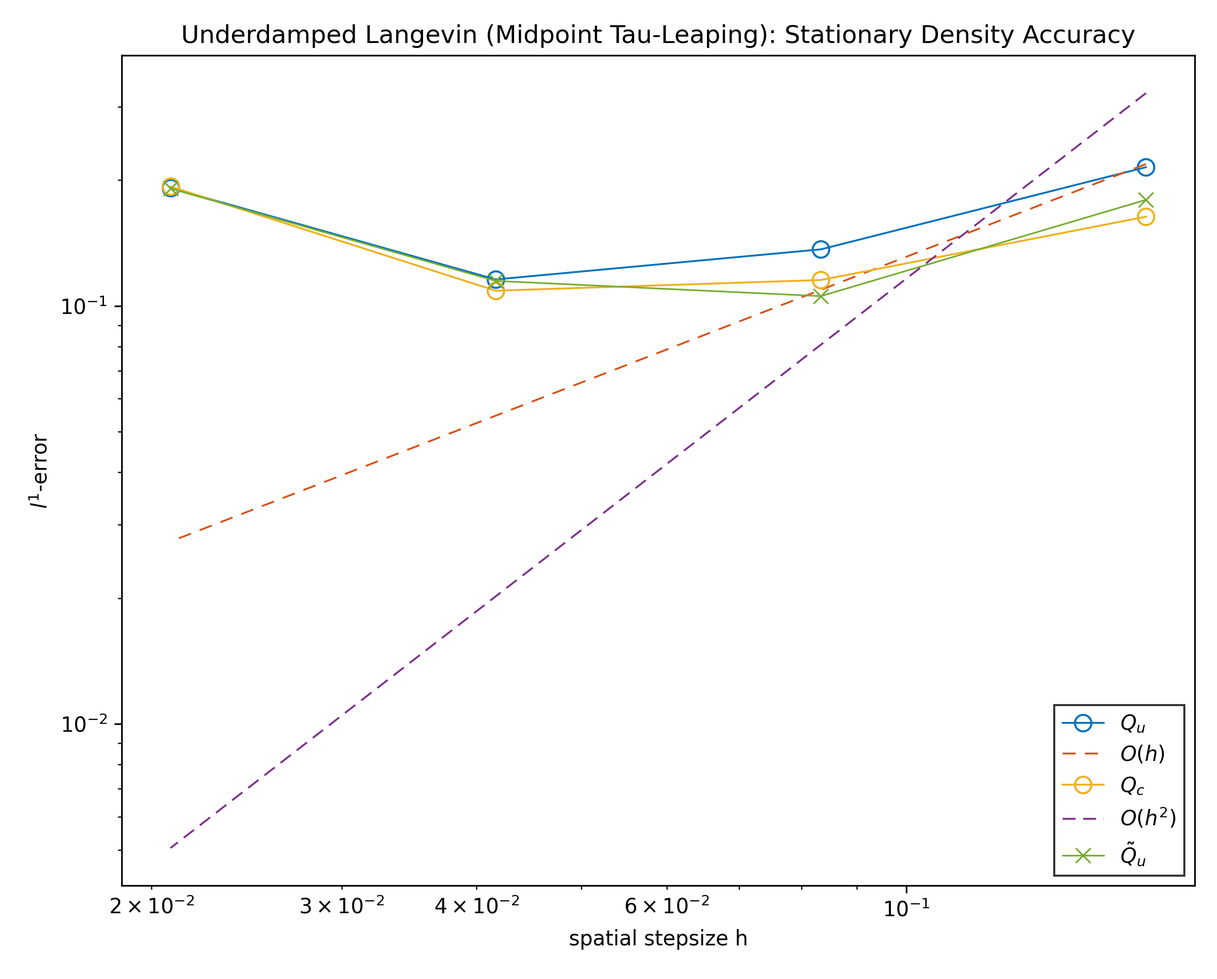
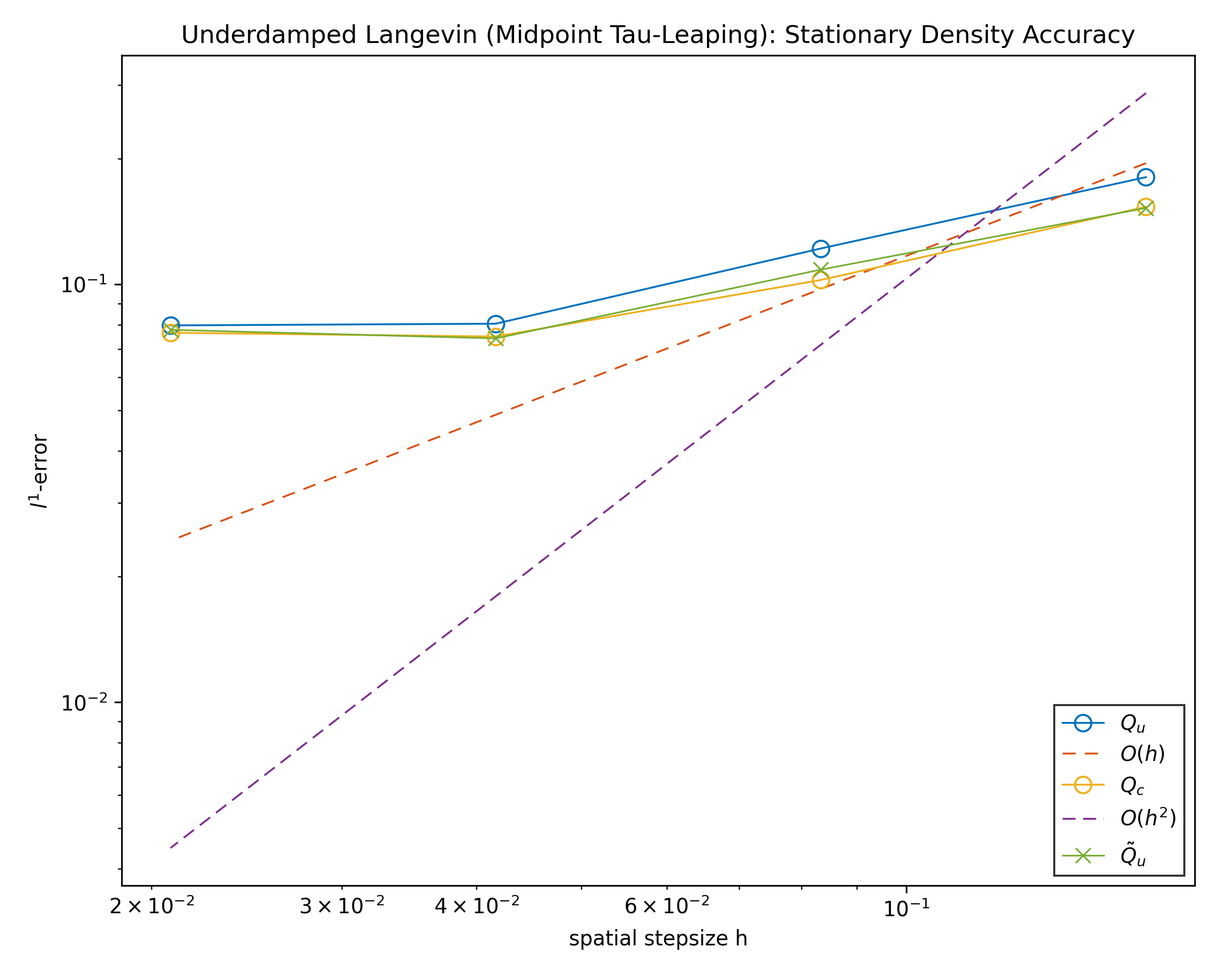
增加一个关于退化噪声的研究现状的介绍

diff --git a/26.02/mid_point.py b/26.02/mid_point.py
@@ -31,7 +31,7 @@ def _rates(mu_x: float, mu_v: float, h: float, sigma: float, scheme_id: int) -> 
     qx_p = max(mu_x, 0.0) / h
     qx_m = max(-mu_x, 0.0) / h
 
-    m = 0.5 * sigma * sigma
+    m = 0.5 * sigma * sigma #!!!
     if scheme_id == 0:  # Q_u
         qv_p = max(mu_v, 0.0) / h + m / (h * h)
         qv_m = max(-mu_v, 0.0) / h + m / (h * h)
@@ -142,6 +142,7 @@ def adaptive_sample_steps(
     # tau scales linearly with h; sample steps are additionally scaled by 1/h
     # so the effective sample size per bin is more stable across grids.
     tau = tau_ref * (h / h_ref)
+
     base_steps = int(round(t_sample / tau))
     extra_scale = n / n_ref
     sample_steps = int(round(base_steps * extra_scale))
@@ -182,10 +183,11 @@ def main() -> None:
     n_list = [48, 96, 192, 384]
     h_vals = span / np.array(n_list, dtype=np.float64)
 
-    tau_ref = 0.02
+    tau_ref = 0.001
     t_burn = 1_000.0
     t_sample = 4_000.0
     sample_cap = 1_600_000
+    sample_cap = 160_000_000
     n_rep = 2
     n_ref = n_list[0]
     h_ref = span / n_ref

diff --git a/deep-research-report.md b/deep-research-report.md
@@ -1,0 +1,340 @@
+# 退化噪声随机系统的理论与数值研究进展综述
+
+## 执行摘要
+
+带**退化噪声**（degenerate noise）的随机系统，典型地指随机扰动只作用在状态空间的部分方向，或噪声强度随状态变化并可能在某些区域/流形上**降秩甚至消失**。此类系统的“生成元”对应**非一致椭圆**的二阶算子，因而许多经典工具（如一致椭圆 PDE 的 Schauder/Aronson 理论）需要被替换或加强。其核心图景是：**扩散只在少数方向发生，但漂移与噪声方向通过李括号/耦合把随机性传播到全空间**，从而出现次椭圆（hypoelliptic）平滑、遍历与混合等现象。
+
+理论方面，现代主线通常由三条链路构成：  
+(1) **Hörmander 括号条件 →（次椭圆）平滑性/密度存在**：从  的次椭圆判别（1967）出发，（1978）引入随机变分（Malliavin calculus）给出概率证明与密度正则性框架，随后有简化与统一化（如 Norris、Kusuoka–Stroock、Hairer 等）。  
+(2) **平滑/强 Feller + 可达性/不可约性 → 遍历性与混合速率**：在退化噪声情形，“小集/次小化”往往来自次椭圆平滑与控制可达性，配合 Harris 定理即可推出唯一不变测度与指数混合；在典型的动力学（如 kinetic Fokker–Planck/Langevin）中，**hypocoercivity** 给出更“结构化”的指数收敛与可计算速率。  
+(3) **小噪声/短时极限 → 大偏差与几何**：退化噪声下的大偏差率泛函通常等价于“控制能量”最小化；强退化且代数结构（零幂化/分级）显著时会出现**分级（graded）LDP**与次黎曼几何控制距离。
+
+数值方面，退化噪声并不必然降低经典离散格式（Euler–Maruyama 等）的**有限时间强/弱收敛阶**，因为这些阶数多依赖于系数 Lipschitz 与矩条件，而不要求扩散矩阵可逆；但退化会显著影响：  
+- **弱误差分析所需的 Kolmogorov PDE 正则性**（此处次椭圆性反而是利好）；  
+- **长时间采样/不变测度偏差**（需要结合 hypocoercivity 与 backward error analysis）；  
+- **结构保持（如正性、约束流形、守恒律）**与稀有事件方差控制（MLMC/重要性采样）。
+
+下面给出按“定义—适定性—正则性—长期动力学—大偏差—控制—数值方法”的系统化梳理，并在每部分给出关键定理假设、证明思路要点、代表性文献与可操作的数值建议。
+
+```mermaid
+flowchart LR
+A[退化结构: 降秩/消失/部分受噪] --> B[分析工具]
+B --> B1[Hörmander/李括号]
+B --> B2[Malliavin 协方差]
+B --> B3[Harris+Lyapunov 小集]
+B --> B4[Hypocoercivity]
+B --> C[结论层]
+C --> C1[密度平滑/强Feller]
+C --> C2[遍历/混合速率]
+C --> C3[LDP/稀有事件几何]
+C --> D[数值层]
+D --> D1[离散收敛(强/弱)]
+D --> D2[不变测度偏差]
+D --> D3[MLMC/方差缩减]
+D --> D4[粒子/谱/多尺度]
+D --> E[应用: 动力学Langevin/过滤/金融/控制]
+```
+
+## 退化噪声：定义、分类与建模范式
+
+考虑一般（不预设具体形式的）Itô 随机系统
+$$
+\mathrm dX_t=b(X_t)\,\mathrm dt+\sigma(X_t)\,\mathrm dW_t,\qquad X_t\in\mathbb R^d,\; W_t\in\mathbb R^m,
+$$
+其扩散矩阵 $a(x)=\sigma(x)\sigma(x)^\top$ 是 $d\times d$ 半正定矩阵。所谓“非退化/一致椭圆”通常要求存在 $\lambda>0$ 使 $a(x)\ge \lambda I$（各向同性、全方向扩散）；而**退化噪声**意味着 $a(x)$ 在某些点/方向上不再正定（秩小于 $d$ 或最小特征值可趋于 0），使生成元成为（仅）半椭圆或次椭圆算子。
+
+在研究与应用中，退化大致可按“几何结构 + 噪声如何传播”分为四类（与你问题中点名的四种基本对齐）：
+
+1) **部分退化（partially degenerate，常秩但 $m<d$**）：噪声只直接作用于部分分量，但漂移把噪声传播到其它分量。典型原型是**动量—位置耦合**的 kinetic Langevin/随机哈密顿系统，噪声注入动量（速度）而位置仅通过 $\dot q=p$ 获得随机性。  
+
+2) **次椭圆/“Hörmander 型”退化（hypoelliptic degeneracy）**：虽然 $a(x)$ 退化，但由漂移与噪声向量场的李括号生成的分布在每点张成全空间，从而获得平滑密度等强正则结论（Hörmander 条件）。  
+
+3) **乘性退化（multiplicative degeneracy：$\sigma(x)$ 随状态变化并可能在边界/零点消失）**：如平方根型扩散（CIR/Heston 族）在 $x=0$ 处扩散强度为 0，从而引入边界可达性、正性保持与数值格式设计问题；这类系统虽可在一维/特殊结构下解析，但一般会出现非光滑系数与边界层效应。  
+
+4) **状态依赖降秩（state-dependent rank degeneracy）**：$\mathrm{rank}\,\sigma(x)$ 随 $x$ 改变，甚至在某些集合上突然降秩；此时 Hörmander 条件可能只在局部成立或以“弱 Hörmander”形式成立，密度的支撑与正性会出现强几何依赖。  
+
+为便于后续“何种理论可用”，下表给出（粗粒度但实用的）对应关系。
+
+| 退化类型 | 典型结构特征 | 主要可用理论工具 | 常见可得结论（在附加条件下） | 主要难点/风险点 |
+|---|---|---|---|---|
+| 部分退化（常秩，噪声在子空间） | $m<d$，噪声注入子空间；漂移耦合 | Hörmander、Malliavin、Harris、hypocoercivity | 平滑密度、唯一不变测度、指数混合；可证明离散链遍历性 | 噪声传播依赖耦合；长时间数值偏差更敏感  |
+| 次椭圆（括号生成） | 李括号生成全维 | Hörmander(1967)、Malliavin(1978)、Norris 引理 | 转移密度 $C^\infty$、强 Feller、密度正性区间 | 需要验证括号条件；弱 Hörmander 情形更精细  |
+| 乘性退化（噪声可消失） | $\sigma(x)=0$ 于边界/集合 | 一维边界分类、路径唯一性、正性保持格式 | 正性/不可穿越边界；不变测度存在（视漂移） | 数值易“穿越”边界；弱误差/密度可能奇异  |
+| 状态依赖降秩 / 弱 Hörmander | 秩随 $x$ 变；传播结构局部化 | 局部 Malliavin、parametrix、管状估计 | 局部密度估计、支撑/正性判别、短时渐近 | 全局遍历可能失败；多不变测度/亚指数混合  |
+
+**数值实现建议（建模阶段就要做）**：在开始任何数值模拟之前，建议先明确你研究对象属于哪类退化：  
+- 若是“部分退化 + 耦合传播”，优先尝试验证（或构造）Hörmander/可控性条件，因为它同时决定密度正则性与遍历（进而决定采样算法可行性）。  
+- 若是“噪声可消失”，先做边界可达性与正性分析（是否会撞到退化集合、撞到后如何演化），否则数值上需要强制正性/反射/吸收的结构保持。  
+- 若是“状态依赖降秩”，要区分局部与全局可达性：局部有密度并不自动推出全局唯一遍历。  
+
+## 适定性：存在唯一性、弱/强解与不可约性
+
+退化噪声下，最基础的问题仍是：解是否存在（weak/strong），是否唯一（law uniqueness / pathwise uniqueness），是否爆炸，以及解流的正则性如何。许多“第一层”结论**不要求**扩散矩阵可逆：只要系数满足局部 Lipschitz 与线性增长，就可得到强解存在唯一（经典 Itô 理论）。这一点在标准教材体系中是明确的。  
+
+**关键定理（经典强适定性，非退化非必要）**：若 $b,\sigma$ 在 $\mathbb R^d$ 上局部 Lipschitz 且满足线性增长，则对任意初值 $X_0=x$ 存在唯一（不会爆炸的）强解；并且解对初值在局部意义下连续。主要证明基于 Picard 迭代、Burkholder–Davis–Gundy 不等式与 Grönwall。  
+
+当系数不满足 Lipschitz（尤其是乘性退化、粗糙漂移、Sobolev 系数）时，退化会显著改变“噪声正则化”能力：在一致椭圆情形可用的 Zvonkin 变换/偏微分方程正则化，到了退化情形往往需要额外结构（例如 Hörmander 传播或特殊链式结构）才能成立。相关方向在近十余年有一批针对“退化 + 低正则系数”的强唯一性成果：
+
+-  与  证明了对**可能退化**的多维 SDE，在扩散系数处于 Sobolev/Holder 类、漂移较粗糙的条件下仍可得强唯一性与弱存在；核心工具包括 Krylov 型估计、正则化与局部化。  
+-  对退化系统在 Hölder 漂移（指数超过临界阈值）情形给出路径唯一性证明，反映了退化噪声下的临界正则门槛现象。  
+-  等对带奇异速度场的阻尼 Langevin（典型部分退化）建立强适定性并进一步讨论指数遍历（见下一节）。  
+
+**证明思路要点（为何这些方法能“顶住退化”）**：  
+(1) 通过“把 SDE 变成 PDE 的估计问题”仍然是主线，但 PDE 不再是一致椭圆方程，而是 Kolmogorov 型退化 PDE；因此往往需要利用系统的链式结构或 Hörmander 传播来获取足够的先验估计（例如某些方向上的次椭圆 Schauder/L^p 正则）。  
+(2) Krylov 估计与 Girsanov 变换仍可用，但可用范围更受限制，因为退化会导致噪声方向不足以“抹平”漂移的不规则性。  
+
+**不可约性/可达性（为遍历打基础）**：适定性之外，退化系统常需要额外验证“从任意点能进入足够大的集合”这一性质。经典做法是将其转化为控制系统可达性（支撑定理），或借助密度正性判别。  
+
+**数值实现建议**：  
+- 在粗糙系数或强非线性场景，优先使用“tamed/implicit”思想或能量控制型离散（见后文），并在模拟中实时监控矩增长/爆炸迹象（例如动量平方、Lyapunov 函数。）。对应的理论动机来自这些强适定性工作普遍依赖的 Lyapunov 与 Krylov 估计框架。  
+- 若目的是长时间统计（不变测度/遍历平均），适定性证明里出现的 Lyapunov 函数往往可直接复用为数值稳定性诊断量。  
+
+## 正则性：Hörmander 型次椭圆、Malliavin 工具与密度估计
+
+退化噪声的“最核心增益”往往不是强解存在性本身，而是**在退化条件下仍能得到平滑的转移密度与强 Feller 性**，使得长期动力学与控制问题可处理。这里的中心结果就是 Hörmander 次椭圆理论及其 Malliavin 概率证明。
+
+**关键定理（Hörmander 1967：括号条件 ⇒ 次椭圆/平滑）**：对二阶算子
+$$
+L = V_0 + \frac12\sum_{i=1}^m V_i^2
+$$
+（$V_i$ 是光滑向量场），若在每个点 $x$ 上，由 $\{V_1,\dots,V_m\}$ 与其与 $V_0$ 的迭代李括号生成的李代数张成 $\mathbb R^d$，则对应的偏微分算子是**hypoelliptic**，因此转移概率具有 $C^\infty$ 密度（在适当条件下）。  
+
+**Malliavin calculus 路线（Malliavin 1978 及其发展）**：Malliavin 的突破是引入 Wiener 空间上的微分结构，定义并分析**Malliavin 协方差矩阵**
+$$
+\mathcal M_t = \langle DX_t, DX_t\rangle_{L^2([0,t])},
+$$
+证明其在 Hörmander 条件下几乎处处可逆且逆矩具有足够矩，从而推出密度存在与平滑。随后  的专著系统化了该理论； 提供了广为使用的简化工具（含 Norris 引理）， 与  给出密度估计、近似与误差分析的经典框架； 的讲义/论文提供了现代化的短证明与直观解释。  
+
+**证明思路要点（为什么括号条件能“补齐”退化方向）**：  
+- 从动力系统角度，$V_i$ 给出直接噪声方向，“漂移 + 噪声方向”通过李括号刻画的高阶效应在小时间尺度内产生额外可达方向（类似控制系统的 Lie algebra rank condition）。这与控制可达性理论深度同构（见后文“控制与支撑定理”）。  
+- Malliavin 路线把这一几何传播转化为协方差矩阵的下界估计：若某方向 $\xi$ 使 $\langle \mathcal M_t\xi,\xi\rangle=0$，意味着沿噪声路径的任何微扰都无法在该方向产生变化；Hörmander 条件排除了这种情况，通过 Norris 引理与迭代括号展开可得 $\det \mathcal M_t>0$ 的概率下界。  
+
+**密度估计与“噪声传播链”**：在部分退化系统中，人们常关注密度的定量上/下界与短时标度。 与  针对“第一分量受非退化噪声驱动，其余分量为确定性链式传递”的模型给出双边密度估计与几乎最优的标度行为，这是“退化但可传播”的原型结果之一。  
+与此相关的还有弱 Hörmander 条件下的管状估计（tube estimates），揭示“可达性几何”如何进入密度估计。  
+
+**数值实现建议（正则性层面对算法的影响）**：  
+- 若你要证明或利用弱误差阶、或要用 PDE/半群方法分析算法偏差，**确认系统满足 Hörmander（或其弱形式）是关键分水岭**：满足时，Kolmogorov 方程解的平滑性更可期，从而 Talay–Tubaro 式弱误差展开更容易成立；若不满足，则弱误差可能被非光滑密度、边界奇性或支撑维数降低所主导，需要改写误差分析（例如改用路径空间方法或局部化）。  
+- 对实际计算，验证 Hörmander 的“工程化”做法通常是：在感兴趣区域采样若干点，数值计算向量场及其低阶李括号的张成维数（符号/自动微分都可），用于初步判断噪声传播是否充分；这也同时为后续控制可达性分析服务。  
+
+## 长期动力学：不变测度、遍历、混合与稳定分岔
+
+退化噪声系统的长期行为是最丰富也最“应用导向”的部分：你关心的不仅是是否存在不变测度，还关心唯一性、混合速率（mixing rate）、以及噪声对稳定性/分岔的影响。这里常用两类互补框架：**Harris–Lyapunov（概率）**与 **hypocoercivity（算子/能量）**。
+
+**Harris 型遍历性（强通用框架）**：  
+在一般马尔可夫过程层面，Harris 定理指出：若存在 Lyapunov 函数 $V$ 使得
+$$
+P_t V \le \alpha V + \beta\quad (\alpha<1),
+$$
+并且某个“$V$ 的小水平集”是小集（minorization/small set），则过程具有唯一不变测度，且在加权全变差度量下指数收敛。 与合作者给出了适用于 SDE（含退化噪声）及其时间离散的系统性做法：用 Markov 链理论（Meyn–Tweedie 思路）证明几何遍历，并分析离散近似的稳健性。  
+同时，Hairer 等对 Harris 证明给出更“可操作”的版本，常被用作 SPDE/退化扩散的遍历工具箱。  
+
+在退化噪声情形，“小集”往往来自两条路径：  
+- **次椭圆平滑 ⇒ 强 Feller ⇒ 局部密度下界 ⇒ 小集**；  
+- **支撑定理/可控性 ⇒ 可达性 ⇒ 不可约性**，再配合局部平滑得到小集。  
+
+**Hypocoercivity（结构化指数趋于平衡）**：  
+在 kinetic Fokker–Planck、Langevin 等典型退化扩散中，生成元常可分解为 “耗散项 + 反对称输运项”，直接耗散缺失导致标准 Poincaré/谱隙工具不直接适用，此时 hypocoercivity 通过构造等价范数/熵泛函，把输运耦合带来的间接耗散显式化，从而得到指数趋于平衡与可计算速率。 的系统性综述（Hypocoercivity）奠定了该方法的统一框架；、、 等给出针对线性动理学方程的精细化版本。  
+在随机哈密顿/阻尼 Langevin 场景， 讨论了指数收敛到不变测度与隐式离散的长期性质，这是“退化扩散 + 长期数值近似”连接理论与算法的经典文献。  
+
+**稳定性与分岔（退化噪声的特殊性）**：  
+- 在随机稳定性理论中，Lyapunov 函数与指数稳定/有界性等概念形成基本工具； 的专著系统整理了随机微分方程稳定性（包含受控系统的稳定化思想）。  
+- 从随机动力系统（RDS）角度， 的专著将随机系统视作“随机映射/随机流”，用随机吸引子、Lyapunov 指数等刻画噪声引发的稳定/同步/分岔。  
+- 退化噪声对分岔的影响高度依赖“噪声是否能到达不稳定模态”。例如在“只激发部分模态”的加性退化噪声下，可能出现稳定化阈值、稳态测度的分岔与 Lyapunov 指数符号变化；近期工作在特定模型（如 Kolmogorov 型系统）中给出系统讨论。  
+
+**数值实现建议（长期统计）**：  
+- 若研究目标是混合速率或稳态采样，建议优先构造可验证的 Lyapunov 函数并数值检查漂移条件，因为这直接决定你能否用 Harris 或 hypocoercivity 控制误差与运行时间。  
+- 对 kinetic/Langevin 类系统，长时间采样往往更看重“对不变测度的偏差阶”而非有限时间强误差；此时 splitting（如 BAOAB）与 backward error analysis 往往比单纯提高强阶更有效（见数值节）。  
+
+## 罕见事件：大偏差与样本路径理论
+
+在退化噪声下，大偏差（LDP）既是理论工具（刻画稳态跃迁、亚稳态、短时热核几何），也是数值设计的指南（重要性采样、最可能路径）。退化的关键影响在于：**率泛函只对噪声可达方向有限**，并且在强退化/次黎曼几何情形，短时标度可能不是“统一缩放”的。
+
+**Freidlin–Wentzell 型小噪声 LDP（控制表述，退化可纳入）**：  
+经典观点：对小噪声系统
+$$
+\mathrm dX_t^\varepsilon=b(X_t^\varepsilon)\,\mathrm dt+\sqrt{\varepsilon}\,\sigma(X_t^\varepsilon)\,\mathrm dW_t,
+$$
+样本路径在 $\varepsilon\to0$ 下满足 LDP，率泛函可写为受控确定性方程
+$$
+\dot x = b(x)+\sigma(x)u
+$$
+的控制能量最小化 $\frac12\int_0^T\|u(t)\|^2\,\mathrm dt$（不可达方向代价为 $\infty$）。这一“变分/控制”形式在弱收敛方法框架下尤其清晰，并可在**可能退化**的 Itô 过程上成立。  
+
+其中， 与  明确讨论了“可能退化”的小噪声 Itô 过程，在较温和假设下用 Dupuis–Ellis 弱收敛策略给出 LDP，并给出对平方根扩散等例子的应用。  
+ 与  的专著则系统呈现了变分表示、弱收敛与稀有事件数值近似之间的统一框架。  
+
+**次椭圆/强退化的短时大偏差与几何**：  
+在 Hörmander 系统中，短时热核渐近与大偏差常与次黎曼距离相关。 与  的工作给出热核在对角线附近的指数衰减与几何结构联系，是经典基石。  
+对于“强退化且李代数具零幂结构”的情形，Ben Arous 与  提出了分级大偏差原理（graded LDP），反映不同方向的有效时间标度不同。  
+
+**数值实现建议（稀有事件）**：  
+- 若你要计算跃迁概率/最可能路径，优先写出控制问题的 Euler–Lagrange/Hamilton 方程，或用变分方法求最小作用量路径；退化噪声下要特别注意“可达集”的几何约束——很多路径的代价实际上是 $\infty$。这一点从支撑定理与控制表述可直接看出。  
+- 重要性采样与自适应偏置往往可从最优控制（零方差偏置）出发构造；Budhiraja–Dupuis 体系强调这类“表示 + 数值”闭环。  
+
+## 控制与可达性：可控性、支撑定理与稳定化
+
+退化噪声系统与几何控制之间有直接对应：噪声只在 $m$ 个方向驱动，等价于控制系统只允许沿这 $m$ 个向量场施加控制输入。因此“系统能到哪儿”“密度在哪里为正”“是否不可约”等问题，都可以以控制可达集/轨道理论来刻画。
+
+**支撑定理（Stroock–Varadhan 1972）**：  
+在适当正则条件下，扩散过程在路径空间 $C([0,T];\mathbb R^d)$ 上的法则支撑（support）等于“以 Cameron–Martin 路径作为控制”的受控常微分方程解集的闭包。直观上，这说明：**退化噪声不会自动‘填满’全空间；它能到达的区域由相应控制系统决定**。  
+
+控制理论进一步给出“何时可达集是满维”的判据：  
+- **轨道定理/李括号结构**： 的轨道定理刻画由向量场族生成的轨道为浸入子流形，并与括号闭包相关；在典型条件下，李代数秩条件可推出局部可控性与可达集的维数结论。  
+- 几何控制的系统性教材（如  与 ）总结了 Chow–Rashevskii、Lie algebra rank condition 等与可控性相关的几何机制，这也正是 Hörmander 条件在控制侧的“同源版本”。  
+
+**密度正性与可达性**：密度是否在某点严格为正，本质上与能否用控制系统从初值到达该点有关。近年的工作把 Ben Arous–Léandre 的思想与控制几何结合，给出可操作的正性判据。  
+
+**稳定化与控制**：退化噪声下，噪声并不一定稳定系统；但如果噪声方向经耦合能够影响不稳定模态，则可能产生噪声诱导稳定、同步等现象。稳定化的一般理论仍以 Lyapunov 方法为核心（可扩展到受控扩散）。  
+
+**数值实现建议（控制/可达性相关计算）**：  
+- 实务上，支撑定理提示一种“先验诊断”：用确定性受控系统（把 $dW_t$ 换成分段线性控制）做可达性数值实验，可快速判断状态空间的可达区域、潜在不变流形以及多稳态结构。  
+- 若你要做过滤/观测同化，退化噪声往往意味着“隐状态在部分方向上缺乏直接激励”，粒子滤波可能出现退化（权重塌缩）更严重，应更早引入重采样、局部 MCMC move 或基于控制的 proposal（见后文粒子法）。  
+
+## 数值方法：离散化、收敛率、方差缩减与多尺度
+
+这一节将数值方法分为三层目标：  
+- **有限时间轨道近似**（强/弱收敛）；  
+- **长时间统计/不变测度采样**（偏差与混合）；  
+- **不确定性量化/稀有事件**（方差缩减与多尺度）。
+
+### 离散化与强/弱收敛：退化是否改变收敛阶？
+
+**基础结论（Euler–Maruyama 等的强/弱阶）**：在全局 Lipschitz 与线性增长等标准条件下，Euler–Maruyama 的强收敛阶典型为 $1/2$，弱收敛阶典型为 $1$；这些结论本身不依赖扩散矩阵可逆。 的综述讲义是数值模拟 SDE 的高可读入口；弱误差系统展开的基础来自  与 Talay 的经典工作（Talay–Tubaro 展开）。  
+
+**退化带来的“弱分析差异”**：  
+强收敛更多直接依赖路径估计（BDG + Grönwall），因此在光滑系数下通常不因退化而本质改变；但弱误差分析常通过 Kolmogorov backward PDE 的解的高阶导数有界性来实现。退化系统若满足 Hörmander 次椭圆，则反而可保证足够平滑；若不满足，弱误差可能被非光滑性主导，从而需要换工具。  
+
+**隐式/稳定化离散**：对刚性或强耗散系统，隐式 Euler 常用于提升稳定性，且在某些退化系统（如随机哈密顿/阻尼 Langevin）中能与长期遍历分析良好耦合（Talay 2002）。  
+
+**乘性退化（正性保持）专门格式**：平方根扩散（例如 CIR）要求数值上保持非负性，否则会产生不可解释的复数噪声项或严重偏差。 系统研究了 CIR 的离散与高阶弱格式，并给出在无参数限制条件下的可实现方案，是“噪声在边界退化”的代表性数值文献。  
+
+### 长时间采样：splitting、backward error 与不变测度偏差
+
+对遍历系统，更常见的任务是估计稳态平均 $\int \varphi\,\mathrm d\mu$ 或生成近似独立样本。此时，“单步强误差”并不等价于“稳态偏差”，需要专门的长期分析。
+
+**Talay 2002（随机哈密顿系统）**：研究了随机哈密顿系统的指数趋于不变测度，并讨论隐式 Euler 离散对长期统计的影响，是连接“退化动力学 + 不变测度 + 数值近似”的经典桥梁。  
+
+**分裂法与 BAOAB（Langevin/动理学系统）**：在分离可解子算子（如漂移、摩擦、噪声）后进行 splitting，可得到对 Gibbs 测度采样表现优异的算法。 与  通过 BCH 展开比较多种 Langevin 积分器，并揭示 BAOAB 等方法在某些极限下的“超收敛/低偏差”性质，这在分部退化的采样问题中具有很强实践意义。  
+
+**高阶不变测度近似**： 等研究了如何构造对不变测度具有更高阶精度的数值方法（通过修正漂移/噪声或高阶后向误差分析），适用于遍历扩散的稳态平均评估。  
+
+### 方差缩减与蒙特卡洛：MLMC、小噪声与稀有事件数值
+
+**MLMC（多层蒙特卡洛）**： 的 MLMC 结果表明，在典型 Lipschitz payoff + Euler 离散下，把均方误差控制到 $O(\varepsilon^2)$ 的计算复杂度可从标准 MC 的 $O(\varepsilon^{-3})$ 降到 $O(\varepsilon^{-2}(\log \varepsilon)^2)$（更理想的设置下可达 $O(\varepsilon^{-2})$）。这是实践中最通用的方差缩减机制之一。  
+
+```mermaid
+xychart-beta
+title "标准MC vs MLMC 的典型成本阶（Euler离散，Lipschitz payoff）"
+x-axis ["MC", "MLMC"]
+y-axis "ε 的幂指数（越小越省）" 0 --> 3
+bar [3, 2]
+```
+
+**小噪声与退化结构下的改进**：在小噪声极限中，粗粒度离散的方差结构会变化，MLMC 需要与小噪声结构匹配的耦合策略；、Higham 与  专门分析了小噪声 SDE 的 MLMC 行为。  
+
+**稀有事件加速**：与大偏差部分对应，基于变分表示/最优控制的加速蒙特卡洛在 Budhiraja–Dupuis 体系中被系统讨论；理论上最优偏置与率泛函最小化紧密相关。  
+
+### 多尺度方法：平均/齐次化 + 退化噪声
+
+退化噪声系统中多尺度现象很常见：快变量可能正是受噪声驱动的分量，而慢变量缺少直接噪声。此时如果直接全系统细步长模拟会极其昂贵。
+
+**HMM（异质多尺度方法）**： 与  的综述提出 HMM 的通用设计原则，并明确把随机/多尺度模拟作为重要应用场景。该框架尤其适合“噪声在快变量、慢变量退化”的结构：用微观模拟估计宏观闭合项，宏观步进保持大步长。  
+
+### 粒子方法：过滤、相互作用粒子与退化问题
+
+退化噪声常出现在过滤/同化中：系统噪声维数较低、观测不完整，使得后验分布呈现强几何结构。
+
+- 顺序蒙特卡洛（SMC）方法的系统性总结可参见 、、 的专著，它涵盖收敛基础与工程技巧（重采样、提议分布设计等）。  
+- 相互作用粒子与 Feynman–Kac 表述方面， 的专著提供了严格概率框架，并讨论潜在函数退化等粒子退化问题。  
+
+**数值建议**：退化噪声 + 高维会显著放大粒子退化：建议尽早使用（i）局部 MCMC rejuvenation，（ii）基于控制/线性化的 proposal，（iii）使用 MLMC/多分辨率同化减成本。  
+
+### 谱方法与确定性 PDE 方法：Fokker–Planck/Kolmogorov 的数值
+
+当维数较低（或结构可分离）时，直接求解概率密度 PDE 往往比路径模拟更高效，并能自然处理退化耗散结构（如动理学 FP）：
+
+- 对动理学/非自伴算子谱理论与次椭圆估计，Helffer–Nier 的专著是重要参考（从理论到算子谱结构）。  
+- 在碰撞算子/FP–Landau 等场景， 等给出快速谱方法与守恒结构讨论，体现谱方法在 FP 类方程的高精度潜力。  
+- 更近期的工作在一般 FP 方程与复杂边界条件下构造稳定谱格式，显示“谱方法 + 结构保持”的持续发展。  
+
+---
+
+### 数值方法对比表：收敛、优缺点与退化特性适配
+
+| 方法族 | 典型适用目标 | 典型收敛结论（在标准假设下） | 退化噪声下常见优点 | 退化噪声下常见风险/注意点 | 代表性文献 |
+|---|---|---|---|---|---|
+| Euler–Maruyama（显式） | 有限时间路径近似；MC | 强阶 1/2；弱阶 1（Lipschitz/足够光滑时） | 实现最简单；不要求扩散可逆 | 刚性/长时间偏差较大；边界退化会穿越（如负值） | Higham(2001)；Talay–Tubaro(1990)  |
+| 隐式 Euler / 半隐式 | 刚性与长期稳定 | 稳定性更好；可与遍历分析结合 | 更易满足 Lyapunov 漂移条件，利于长期模拟 | 需解非线性方程；高维成本 | Talay(2002)  |
+| Tamed/截断类 | 非全局 Lipschitz 漂移 | 在多项式增长漂移下可恢复收敛 | 抑制爆炸，适合强非线性 | 可能引入偏差；需调参 |（遍历近似方向的现代工作可参照 Mattingly 体系与后续文献） |
+| Splitting（BAOAB 等） | Langevin/动理学采样 | 注重不变测度偏差与采样效率 | 对部分退化采样特别有效；可出现“超收敛” | 需与模型结构匹配；非对称 splitting 可能增偏差 | Leimkuhler–Matthews(2013)  |
+| 正性保持格式（平方根扩散等） | 乘性退化且需非负 | 专门弱高阶方案可构造 | 结构保持（非负）是硬约束 | 格式复杂；误差分析依赖边界行为 | Alfonsi(2005/2010)  |
+| MLMC | 期望/分布量的高效估计 | 成本从 ε^{-3} 降至 ε^{-2}(log ε)^2 等 | 与退化噪声无冲突，适合作大规模 UQ | 关键在耦合设计；弱正则性会影响方差衰减 | Giles(2008)；Anderson–Higham–Sun(2016)  |
+| HMM/多尺度 | 快慢变量、平均/齐次化 | 宏观误差由闭合估计决定 | 特别适合“噪声只在快变量”的退化结构 | 需要可重复的微观采样；误差分解复杂 | E–Engquist(2003)  |
+| 粒子法（SMC/Feynman–Kac） | 过滤/后验推断 | 一致性与收敛（理论成熟） | 可处理非线性/非高斯 | 退化噪声更易权重塌缩；需 rejuvenation | Doucet–de Freitas–Gordon(2001)；Del Moral(2004)  |
+| 谱/确定性 PDE 法 | 低维密度演化、稳态 | 高精度、可做谱隙/模态分析 | 能直接体现 hypocoercivity 结构 | 维数灾难；边界与非自伴稳定性难 | Helffer–Nier(2005)；Pareschi 等  |
+
+---
+
+### 开放问题与实际挑战（面向研究工作的“问题清单”）
+
+1) **弱 Hörmander/状态依赖降秩下的“可计算判据”**：理论上存在管状估计与正性判别，但在高维与复杂漂移场景，如何形成鲁棒的数值检验与可用于算法设计的下界仍不成熟。  
+
+2) **退化噪声下的长期数值误差理论**：对许多 splitting 与 tamed 方法，有限时间强误差并不能解释采样偏差；需要与 hypocoercivity/Harris 理论更紧密结合的“可证明、可量化”的偏差—成本权衡。  
+
+3) **稀有事件数值的系统化**：虽然变分表示与 LDP 在退化情形已较成熟（控制表述），但把这些理论稳定地转化为高维有效算法（自适应重要性采样、神经控制等）仍存在普遍困难，尤其当可达集具有复杂几何（多连通、流形约束）时。  
+
+4) **含跳噪声/非高斯退化**：链式传播的 Lévy 噪声退化已出现新工作，但对一般非高斯驱动的“次椭圆 + 遍历 + 数值”统一理论仍在发展中。  
+
+---
+
+**实践性建议（把理论落到可复现计算）**：  
+- 若你的目标是“证明/利用平滑密度、强 Feller、不可约性”，优先围绕“李括号张成性 + Malliavin 协方差可逆 + 支撑定理可达性”三件套组织证明与数值验证。  
+- 若目标是“稳态采样”，优先选择在目标系统上有明确长期偏差分析的 splitting（尤其是动理学/ Langevin 系统），并配合 Harris/hypocoercivity 视角设置摩擦/步长与 burn-in。  
+- 若目标是“大规模期望计算”，默认使用 MLMC（除非模型非常低维可用 PDE 法），并把“耦合误差 + 退化导致的方差结构”作为核心诊断指标。  
+- 若涉及“边界退化/正性”，不要用原始 EM；直接选正性保持或变换后离散，并把边界击中概率作为单元测试。  
+
+---
+
+**参考文献（代表性，按主题覆盖；括号为文中引用格式）**
+
+- Hörmander, L. (1967). *Hypoelliptic second order differential equations*. Acta Mathematica.   
+- Malliavin, P. (1978). *Stochastic calculus of variations and hypoelliptic operators*. Proc. Int. Symp. SDE (Kyoto 1976).   
+- Nualart, D. (2006). *The Malliavin Calculus and Related Topics* (2nd ed.). Springer.   
+- Norris, J. R. (1986). *Simplified Malliavin calculus*. Séminaire de Probabilités XX.   
+- Kusuoka, S., & Stroock, D. W. (1985). *Applications of the Malliavin calculus, Part II*. J. Fac. Sci. Univ. Tokyo Sect. IA Math.   
+- Hairer, M. (2011). *On Malliavin’s proof of Hörmander’s theorem*. Bull. Sci. Math.   
+- Delarue, F., & Menozzi, S. (2010). *Density estimates for a random noise propagating through a chain of differential equations*. J. Functional Analysis.   
+- Pigato, P. (2018). *Tube estimates for diffusion processes under a weak Hörmander condition*. AIHP (Probab. Stat.).   
+- Stroock, D. W., & Varadhan, S. R. S. (1972). *On the support of diffusion processes with applications to the strong maximum principle*. Proc. Sixth Berkeley Symp.   
+- Sussmann, H. J. (1973). *Orbits of families of vector fields and integrability of distributions*. Trans. AMS.   
+- Agrachev, A. A., & Sachkov, Y. L. (2004). *Control Theory from the Geometric Viewpoint*. Springer.   
+- Mattingly, J. C., Stuart, A. M., & Higham, D. J. (2002). *Ergodicity for SDEs and approximations: locally Lipschitz vector fields and degenerate noise*. Stochastic Processes and their Applications.   
+- Hairer, M., & Mattingly, J. C. (2008/2011). *Yet another look at Harris’ ergodic theorem for Markov chains*. (Seminar proceedings; arXiv version 2008).   
+- Kupiainen, A. (2008). *Ergodic theory of SDE’s with degenerate noise* (survey/review chapter).   
+- Villani, C. (2009). *Hypocoercivity*. Memoirs of the AMS.   
+- Dolbeault, J., Mouhot, C., & Schmeiser, C. (2015). *Hypocoercivity for linear kinetic equations conserving mass*. Trans. AMS.   
+- Talay, D. (2002). *Stochastic Hamiltonian systems: exponential convergence to the invariant measure, and discretization by the implicit Euler scheme*. Markov Processes and Related Fields.   
+- Wang, Z., & Zhang, X. (2018). *Strong uniqueness of degenerate SDEs with Hölder diffusion coefficients*. arXiv.   
+- Wang, Z., & Zhang, X. (2020). *Existence and uniqueness of degenerate SDEs with Sobolev diffusion coefficients and rough drifts*. J. Mathematical Analysis and Applications.   
+- Chaudru de Raynal, P.-E. (2017). *Strong existence and uniqueness for degenerate SDE with Hölder drift*. AIHP (Probab. Stat.).   
+- Song, R. (2019/2020). *Damped Langevin SDEs with singular velocity fields: strong well-posedness and exponential ergodicity*. Stochastic Processes and their Applications.   
+- Khasminskii, R. (2012). *Stochastic Stability of Differential Equations* (2nd ed.). Springer.   
+- Arnold, L. (1998). *Random Dynamical Systems*. Springer.   
+- Ben Arous, G., & Léandre, R. (1991). *Décroissance exponentielle du noyau de la chaleur sur la diagonale (I)*. Probability Theory and Related Fields.   
+- Ben Arous, G., & Wang, J. (2019). *Very rare events for diffusion processes in short time*. arXiv.   
+- Budhiraja, A., & Dupuis, P. (2019). *Analysis and Approximation of Rare Events: Representations and Weak Convergence Methods*. Springer.   
+- Chiarini, A., & Fischer, M. (2013/2014). *On large deviations for small noise Itô processes*. (Preprint; AAP version).   
+- Higham, D. J. (2001). *An Algorithmic Introduction to Numerical Simulation of Stochastic Differential Equations*. SIAM Review.   
+- Talay, D., & Tubaro, L. (1990). *Expansion of the global error for numerical schemes solving stochastic differential equations*. Stochastic Analysis and Applications / related proceedings (INRIA preprint).   
+- Leimkuhler, B., & Matthews, C. (2013). *Rational construction of stochastic numerical methods for molecular sampling*. Applied Math. Research Express.   
+- Giles, M. B. (2008). *Multilevel Monte Carlo Path Simulation*. Operations Research.   
+- Anderson, D. F., Higham, D. J., & Sun, Y. (2016). *Multilevel Monte Carlo for SDEs with small noise*. SIAM J. Numerical Analysis.   
+- E, W., & Engquist, B. (2003). *The heterogeneous multiscale methods*. Commun. Math. Sci.   
+- Doucet, A., de Freitas, N., & Gordon, N. J. (2001). *Sequential Monte Carlo Methods in Practice*. Springer.   
+- Del Moral, P. (2004). *Feynman-Kac Formulae: Genealogical and Interacting Particle Systems with Applications*. Springer.   
+- Alfonsi, A. (2005). *On the discretization schemes for the CIR (and Bessel squared) processes*. Preprint.   
+- Alfonsi, A. (2010). *High order discretization schemes for the CIR process*. Mathematics of Computation.   
+- Heston, S. L. (1993). *A closed-form solution for options with stochastic volatility...*. Review of Financial Studies.   
+- Abdulle, A. et al. (2014). *High Order Numerical Approximation of the Invariant Measure of Erg odic SDEs*. SIAM J. Numerical Analysis.   
+- Helffer, B., & Nier, F. (2005). *Hypoelliptic Estimates and Spectral Theory for Fokker-Planck Operators and Witten Laplacians*. Springer.   
+- Pareschi, L. et al. (2000). *Fast spectral methods for the Fokker–Planck–Landau collision operator*. J. Computational Physics. 
